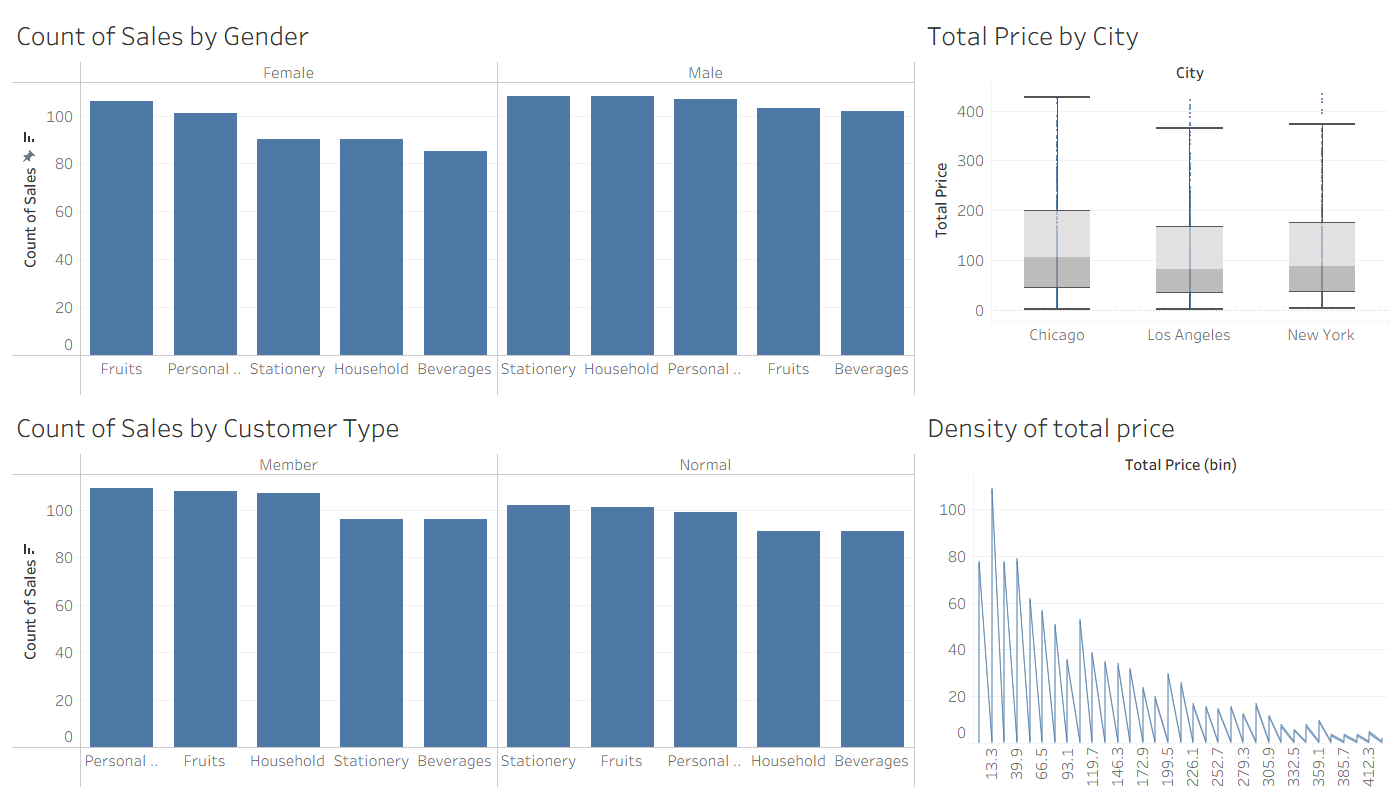
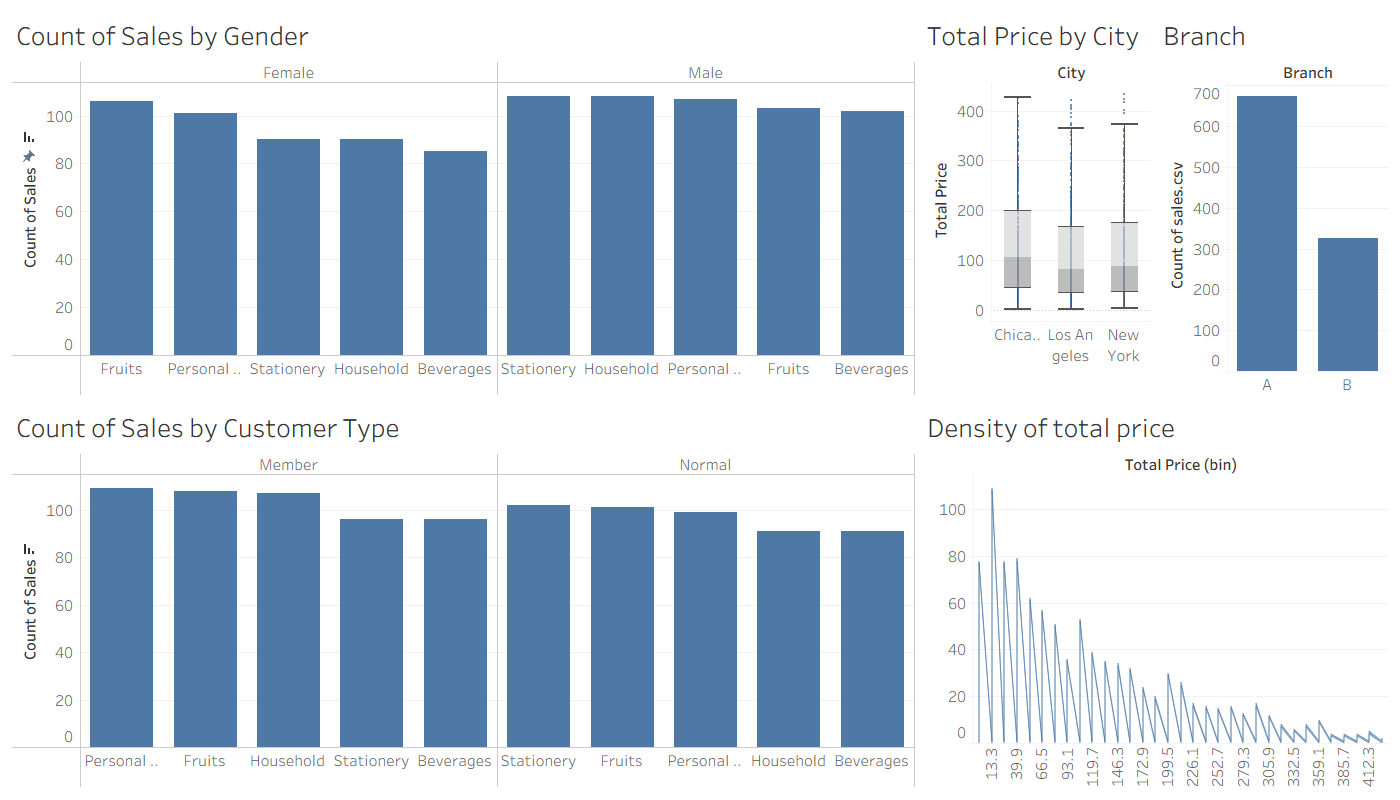
words

Changed region(s): [[0.7064, 0.0312, 0.9829, 0.4688], [0.7371, 0.0938, 0.7679, 0.125]]

diff --git a/index.html b/index.html
@@ -1487,14 +1487,15 @@ updatePipelineProgress();
 
 
 <div class="bg-[linear-gradient(to_bottom,#ffffff_85%,#ffffff_100%)]">
-     <div class="grid  grid-cols-1 gap-0 p-4 sm:p-6 rounded-3xl mx-4 sm:mx-16 md:mx-40 bg-white overflow-hidden">
+     <div class="grid  grid-cols-1 gap-0 p-4 sm:p-6 rounded-3xl mx-5 sm:mx-16 md:mx-40 bg-white overflow-hidden">
 
-          <div class="flex flex-col bg-[var(--color-bg-dark)] rounded-t-md sm:rounded-l-md sm:rounded-tr-none border-b sm:border-b-0 sm:border-r border-white p-4">
-              <div class="text-left text-[var(--color-text-muted)] text-[clamp(1.2rem,2vw,4rem)] font-medium mb-6 tracking-wide" >
+          <div class="flex flex-col rounded-t-md sm:rounded-l-md sm:rounded-tr-none border-b sm:border-b-0 
+               sm:border-r border-white p-2 border !border-[var(--color-accent)] rounded-lg">
+              <div class="text-left text-[var(--color-bg-dark)] text-[clamp(1.2rem,2vw,4rem)] font-medium mb-6 tracking-wide" >
               <p>Does membership status correlate with higher single - transaction sales value?</p>
               </div>
 
-              <div class="text-left text-[var(--color-text-muted)] text-[clamp(0.5rem,2vw,1.0rem)] font-medium mb-6 tracking-wide" >
+              <div class="text-left text-[var(--color-bg-dark)] text-[clamp(0.5rem,2vw,1.0rem)] font-medium mb-6 tracking-wide" >
                      <p>This study aim to find out if the membership status is correlated with higher single transaction sales value based on a real-world Supermarket 
                         Sales Dataset from Kaggle, the supermarket located in 3 regions: Chicago, Los Angeles and New York. Each supermarket has 2 branches: Branch A, Branch B.<br>
                         <br>
@@ -1520,43 +1521,47 @@ updatePipelineProgress();
 
      <div class="grid grid-cols-1 sm:grid-cols-[4fr_2fr] gap-0 p-4 sm:p-6 rounded-3xl mx-4 sm:mx-16 md:mx-40 bg-white overflow-hidden min-w-0">
 
-          <div class="flex flex-col bg-[var(--color-bg-dark)] rounded-l-md border-r border-r-white p-4">
-              <div class="text-left text-[var(--color-text-muted)] text-[clamp(1.2rem,2vw,4rem)] font-medium mb-6 tracking-wide" >
-               <div class="ml-4" ><p>General Insighs1</p></div>
-              <img src="./imgs/Dashboard22.png" class="w-full max-w-[1000px] h-auto p-2 mx-auto">
+          <div class="flex flex-col border-r border-r-[var(--color-accent)] p-4">
+              <div class="text-left text-[var(--color-bg-dark)] text-[clamp(1.2rem,2vw,4rem)] font-medium mb-6 tracking-wide" >
+               <div class="ml-4 mb-6" ><p>General Insights1</p></div>
+              <img src="./imgs/Dashboard2.png" class="w-full h-auto p-2 mx-auto mb-6 border !border-[var(--color-accent)] rounded-lg">
               </div>
 
-              <div class="text-left text-[var(--color-text-muted)] text-[clamp(1.2rem,2vw,4rem)] font-medium mb-6 tracking-wide" >
-              <div class="ml-4" ><p>General Insighs2</p></div>
-              <img src="./imgs/Dashboard1.png" class="w-full w-[1000px] h-auto p-2 mx-auto">
+              <div class="text-left text-[var(--color-bg-dark)] text-[clamp(1.2rem,2vw,4rem)] font-medium mb-6 tracking-wide" >
+              <div class="ml-4 mb-6" ><p>General Insights2</p></div>
+              <img src="./imgs/Dashboard1.png" class="w-full h-auto p-2 mx-auto mb-6 border !border-[var(--color-accent)] rounded-lg">
               </div> 
               
-              <div class="ml-4 text-left text-[var(--color-text-muted)] text-[clamp(1.2rem,2vw,4rem)] font-medium mb-2 tracking-wide" ><p>Lasso Regression Figure</p></div>
+              <div class="ml-4 text-left text-[var(--color-bg-dark)] text-[clamp(1.2rem,2vw,4rem)] font-medium mb-2 tracking-wide" ><p>Lasso Regression Figure</p></div>
               <div class="grid grid-cols-1 sm:grid-cols-[1fr_1.3fr] items-stretch">
               
-              <img src="./imgs/Rplot.png" class="w-full w-[500px] h-auto mx-auto">
+              <img src="./imgs/Rplot.png" class="w-full w-[500px] h-auto mx-auto ">
               <img src="./imgs/lasso.png" class="w-full w-[574px] h-auto mx-auto">
          </div>
           </div>
-          <div class="flex flex-col bg-[var(--color-bg-dark)] rounded-r-md p-4 ">
-              <div class="text-left text-[var(--color-text-muted)] text-[clamp(1.2rem,2vw,4rem)] tracking-wide" >
+          <div class="flex flex-col p-4 ">
+              <div class="text-left text-[var(--color-bg-dark)] text-[clamp(1.2rem,2vw,4rem)] tracking-wide mb-6" >
               <p>Analysis</p>
               </div>
 
-          <div class="text-left text-[var(--color-text-muted)] text-[clamp(0.5rem,2vw,1.0rem)] font-medium mb-6 tracking-wide ">
-              <div class="text-left text-[var(--color-text-muted)] text-[clamp(0.7rem,2vw,1.2rem)] font-medium tracking-wide "><p>Demographic:<br></div>
+          <div class="text-left text-[var(--color-accent)] text-[clamp(0.5rem,2vw,1.0rem)] font-medium mb-6 tracking-wide ">
+              <div class="text-left text-[var(--color-bg-dark)] text-[clamp(0.7rem,2vw,1.2rem)] font-medium tracking-wide "><p>●Demographic:<br></div>
                 
-                 In this dataset,52.8% customers are male,47.2% customers are female;51.6% customers are membership customers,48.4% 
-                 customers are non-membership customers, demographics are balanced.<br>
+                 In this dataset,52.8% customers are male,&nbsp;47.2% customers are female;&nbsp;51.6% customers are membership customers,&nbsp;48.4% 
+                 customers are non-membership customers,&nbsp;demographics are balanced.<br>
                  <br>
-              <div class="text-left text-[var(--color-text-muted)] text-[clamp(0.7rem,2vw,1.2rem)] font-medium tracking-wide "><p>Product:<br></div>
+              <div class="text-left text-[var(--color-bg-dark)] text-[clamp(0.7rem,2vw,1.2rem)] font-medium tracking-wide "><p>●Product:<br></div>
                  
-                 Five products are in product categories, from highest to lowest are: personal care, fruits, beverages, household, 
-                 stationery. total sales are 27050,26197,22935,21616,20737.
-                 From the most purchased product category to least,they are fruits, personal care, beverages, stationery, household,
-                 each acounts:2286,2278,1952,1913,1908.<br>
+                 There are five products in product categories, from highest to lowest: personal care, fruits, beverages, household and 
+                 stationery. Total sales are 27050, 26197, 22935, 21616, 20737 (unit:dollars).<br>
+                 From the most purchased product category to least, they are fruits, personal care, beverages, stationery and household. Corresponding 
+                 purchased quantity: 2286, 2278, 1952, 1913, 1908.<br> 
                  <br>
-              <div class="text-left text-[var(--color-text-muted)] text-[clamp(0.7rem,2vw,1.2rem)] font-medium tracking-wide "><p>Regional Sales:<br></div>
+                 For the unit price: min: 1.02; 1st quantil: 5.867; median:10.615; 3rd quantil: 15.883; max: 20.980.<br>
+                 <br>
+                 For the quantity: min: 1; 1st quantil: 5; median:10; 3rd quantil: 16; max: 20.<br>
+                 <br>
+              <div class="text-left text-[var(--color-bg-dark)] text-[clamp(0.7rem,2vw,1.2rem)] font-medium tracking-wide "><p>●Regional Sales:<br></div>
                  
                  Chicago:<br>
                  Stationery are the most purchased items, followed by fruits and household, beverages are the least purchased items.<br>
@@ -1567,6 +1572,39 @@ updatePipelineProgress();
                  all three category items accounts similarly.fruits are the least purchased items.              
             </p>
           </div>
+          <div class="text-left text-[var(--color-bg-dark)] text-[clamp(0.5rem,2vw,1.0rem)] font-medium mb-6 tracking-wide ">
+              <div class="text-left text-[var(--color-bg-dark)] text-[clamp(0.7rem,2vw,1.2rem)] font-medium tracking-wide "><p>●General insights 2<br></div>
+                
+                 For Female customer, fruits and personal care are 2 most purchased products; for male customer, stationery and household products are 2 most 
+                 purchased products, beverages are the least purchased products for both.<br>
+                 <br>
+                 Member customers tend to buy personal care and household products, non member customers tend to buy stationery products and fruits, beverages 
+                 are the least purchased products for both.<br>
+                 <br>
+                 Customers in Chicago has the strongest purchasing power in general, followed by New York and Los Angles, However, few customers in New York has 
+                 higher transaction records than in Chicago.<br>
+                 <br>
+                 Most total sales are around 13.3 to 93.1, total price over 119.7 are less.<br>
+                 <br>
+                 The amount of branch A is 2 times of branch B, each of them are 672, 326.<br>
+                 <br>
+          </div>
+          <div class="text-left text-[var(--color-bg-dark)] text-[clamp(0.5rem,2vw,1.0rem)] font-medium mb-6 tracking-wide ">
+              <div class="text-left text-[var(--color-bg-dark)] text-[clamp(0.7rem,2vw,1.2rem)] font-medium tracking-wide "><p>●Lasso Regression<br></div>
+                
+                 For low price band, customer purchase in branch B is around 77% higher than branch A; member customer has 18% higher
+                 chance to purchase; compared to beverages, the chance of customer buying fruit is 4% lower, buying household products is 11% lower, buying personal care 
+                 products is 10% lower, buying stationery products is 52% lower; the lower the price, the less the unit price, quantity and reward points.
+                 city and gender has no correlation with the low price band purchase.<br>
+                 <br>
+                 For middle price, customer purchase in New York is 7% lower than in Chicago; Male customer is only 0.1% lower than female customer to purchase. Branch, 
+                 customer type, product category has no correlation with the middle price band purchase.<br>
+                 <br>
+                 For high price band, compared with Chicago, customer purchase in LA is 64% lower, purchase in New York is 33% higher. Normal customer has nearly 49% chance 
+                 to purchase than member customer; male customer has 56% chance than female to purchase; compared with beverage, customer buying fruits is 42% higher, buying 
+                 household category is 175% higher, buying personal care is 39.4% higher, buying stationery products is 20% higher. unit price, quantity, reward points increase 
+                 when the price increase. branch has no correlation with the high price band purchase.<br>
+                 <br>
           </div>
      </div>
 </div>
